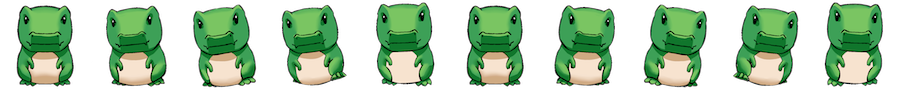
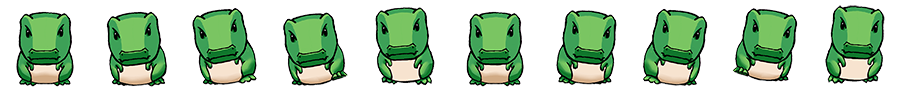
sdlfjkadsl

diff --git a/core/src/tiktaalik/trino/GameController.java b/core/src/tiktaalik/trino/GameController.java
@@ -1679,7 +1679,7 @@ public class GameController implements ContactListener, Screen {
 						avatar.setActionLoadingTextureSet(filmStripDict.get("carnivoreChargeLeft"), 15, 12,
 								filmStripDict.get("carnivoreChargeRight"), 15, 12,
 								filmStripDict.get("carnivoreChargeLeft"), 15, 12,
-								filmStripDict.get("carnivoreChargeFront"),  9, 4);
+								filmStripDict.get("carnivoreChargeFront"),  11, 5);
 						avatar.setActionTextureSet(filmStripDict.get("carnivoreAttackLeft"), 9,
 								filmStripDict.get("carnivoreAttackRight"), 9,
 								filmStripDict.get("carnivoreAttackLeft"), 9,
